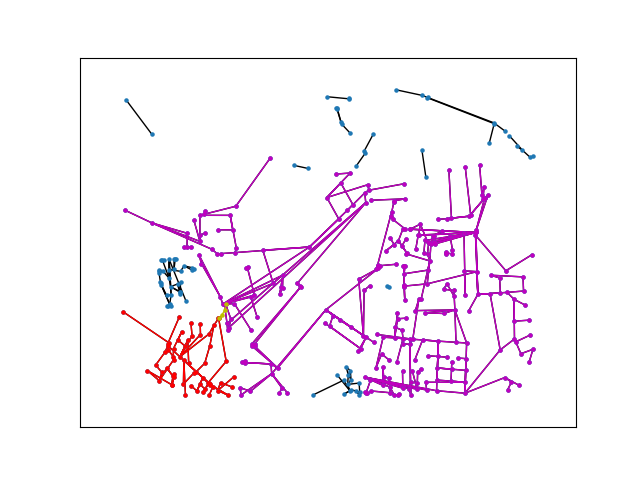
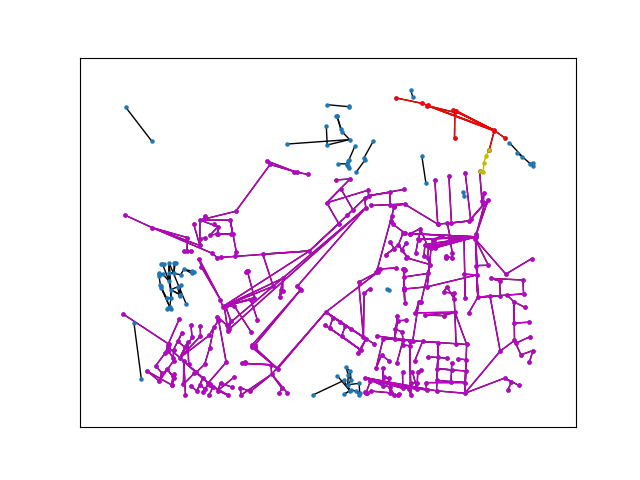
Refactor graph and model; Update images

diff --git a/scripts/graph.py b/scripts/graph.py
@@ -1,11 +1,10 @@
-import math
 import matplotlib.pyplot as plt
 import networkx as nx
 import numpy as np
+from geopy import distance
 from matplotlib import colormaps
 from scripts.model import Model
-from shapely import area, Polygon
-from typing import List, Set, Tuple
+from typing import Dict, List, Set, Tuple
 
 
 class GraphProcessing:
@@ -22,15 +21,19 @@ class GraphProcessing:
         self.graph_complete = nx.Graph(adj_list_complete)
         self.graph = nx.Graph(adj_list)
 
-        edge_length = {edge: self.__get_edge_length(edge) for edge in self.graph_complete.edges}
+        self.edge_length = {edge: self.get_edge_length(edge) for edge in self.graph_complete.edges}
         nx.set_node_attributes(self.graph_complete, self.layout, 'pos')
-        nx.set_edge_attributes(self.graph_complete, edge_length, 'length')
+        nx.set_edge_attributes(self.graph_complete, self.edge_length, 'length')
         nx.set_node_attributes(self.graph, self.layout, 'pos')
-        nx.set_edge_attributes(self.graph, edge_length, 'length')
+        nx.set_edge_attributes(self.graph, self.edge_length, 'length')
 
         self.connect_close_nodes()
         sorted_groups = self.get_connected_components()
         self.largest_groups = [sorted_groups[0], sorted_groups[1]]
+
+        if self.config.zero_cost:
+            self.edge_length = self.update_edge_length(self.edge_length)
+            nx.set_edge_attributes(self.graph_complete, self.edge_length, 'length')
 
     def shortest_path_overall(self, from_region: Set[int], to_region: Set[int]):
         """
@@ -39,20 +42,20 @@ class GraphProcessing:
         dist = float('inf')
         shortest_path = []
         for target in to_region:
-            distance, path = nx.multi_source_dijkstra(self.graph_complete, from_region, target=target, weight='length')
-            if distance < dist:
-                dist = distance
+            dist_temp, path = nx.multi_source_dijkstra(self.graph_complete, from_region, target=target, weight='length')
+            if dist_temp < dist:
+                dist = dist_temp
                 shortest_path = path
         shortest_path_edges = [(shortest_path[i], shortest_path[i + 1]) for i in range(len(shortest_path) - 1)]
-        return dist, self.trim_path(shortest_path_edges, from_region, to_region)
+        return dist, shortest_path_edges
 
     def shortest_path_town_centre(self, from_region: Set[int], to_region: Set[int]):
         """
         Find the shortest path between the central node in from_region and the central node in to_region,
         where the central node in a region is the node nearest to the centre of the town.
         """
-        node_from = min(from_region, key=lambda n: math.dist(self.layout[n], self.centre))
-        node_to = min(to_region, key=lambda n: math.dist(self.layout[n], self.centre))
+        node_from = min(from_region, key=lambda n: self.get_geodesic_distance(self.layout[n], self.centre))
+        node_to = min(to_region, key=lambda n: self.get_geodesic_distance(self.layout[n], self.centre))
         dist, shortest_path = nx.single_source_dijkstra(self.graph_complete, node_from, node_to, weight='length')
         shortest_path_edges = [(shortest_path[i], shortest_path[i + 1]) for i in range(len(shortest_path) - 1)]
         return dist, self.trim_path(shortest_path_edges, from_region, to_region)
@@ -63,30 +66,19 @@ class GraphProcessing:
         where the central node in a region is the node nearest to the centre of the region.
         """
         centre_from, centre_to = self.get_centre_of_nodes(from_region), self.get_centre_of_nodes(to_region)
-        node_from = min(from_region, key=lambda n: math.dist(self.layout[n], centre_from))
-        node_to = min(to_region, key=lambda n: math.dist(self.layout[n], centre_to))
+        node_from = min(from_region, key=lambda n: self.get_geodesic_distance(self.layout[n], centre_from))
+        node_to = min(to_region, key=lambda n: self.get_geodesic_distance(self.layout[n], centre_to))
         dist, shortest_path = nx.single_source_dijkstra(self.graph_complete, node_from, node_to, weight='length')
         shortest_path_edges = [(shortest_path[i], shortest_path[i + 1]) for i in range(len(shortest_path) - 1)]
         return dist, self.trim_path(shortest_path_edges, from_region, to_region)
 
-    @staticmethod
-    def trim_path(path: List[Tuple[int, int]], from_region: Set[int], to_region: Set[int]):
-        enum_edges = list(enumerate(path))
-        edges_in_from = [(i, edge) for (i, edge) in enum_edges if edge[0] in from_region and edge[1] not in from_region]
-        edges_in_to = [(i, edge) for (i, edge) in enum_edges if edge[0] not in to_region and edge[1] in to_region]
-        start, end = edges_in_from[-1][0], edges_in_to[0][0]
-        return path[start:end + 1]
-
     def get_connected_components(self) -> List[Set[int]]:
-        return sorted(nx.connected_components(self.graph), key=self.__group_area, reverse=True)
+        return sorted(nx.connected_components(self.graph), key=self.group_size, reverse=True)
 
     def get_centre_of_nodes(self, nodes: Set[int]) -> Tuple[float, float]:
         g = nx.subgraph(self.graph, nodes)
         centre = list(nx.center(g, weight='length'))[0]
         return self.layout[centre]
-
-    def add_edges_to_graph(self, edges: List[Tuple[int, int]]):
-        self.graph.add_edges_from(edges)
 
     def display(self, subgraph: List[Set[int]] = None, filepath=None):
         fig, ax = plt.subplots()
@@ -118,23 +110,37 @@ class GraphProcessing:
 
     def connect_close_nodes(self):
         new_edges = nx.geometric_edges(self.graph, radius=self.config.neighbour_eps)
-        self.graph.add_edges_from(new_edges)
+        self.graph.add_edges_from(new_edges, length=self.config.neighbour_eps)
         new_edges = nx.geometric_edges(self.graph_complete, radius=self.config.neighbour_eps)
-        self.graph_complete.add_edges_from(new_edges)
+        self.graph_complete.add_edges_from(new_edges, length=self.config.neighbour_eps)
 
-    def __group_area(self, group: Set[int]):
-        coordinates = [self.layout.get(node_id) for node_id in group]
-        south = min(coordinates, key=lambda x: x[1])
-        west = min(coordinates, key=lambda x: x[0])
-        north = max(coordinates, key=lambda x: x[1])
-        east = max(coordinates, key=lambda x: x[0])
-        bbox: List[Tuple[float, float]] = [south, west, north, east]
-        return area(Polygon(bbox))
+    def group_size(self, group: Set[int]):
+        subgraph = self.graph.subgraph(group)
+        size = 0
+        for edge in subgraph.edges:
+            size += subgraph.get_edge_data(*edge)['length']
+        return size
 
-    def __get_edge_length(self, edge: Tuple[int, int]):
-        if self.config.zero_cost and edge in self.graph.edges:
-            return 0
-        return math.dist(self.layout[edge[0]], self.layout[edge[1]]) * 10000
+    def update_edge_length(self, edge_length: Dict[Tuple[int, int], float]):
+        for edge in edge_length.keys():
+            if edge in self.graph.edges:
+                edge_length[edge] = 0
+        return edge_length
 
-    def __get_geometric_edges(self, graph) -> List[Tuple[int, int]]:
+    def get_edge_length(self, edge: Tuple[int, int]):
+        return self.get_geodesic_distance(self.layout[edge[0]], self.layout[edge[1]])
+
+    def get_geometric_edges(self, graph) -> List[Tuple[int, int]]:
         return nx.geometric_edges(graph, radius=self.config.neighbour_eps)
+
+    @staticmethod
+    def get_geodesic_distance(pos1: Tuple[float, float], pos2: Tuple[float, float]):
+        return distance.distance(tuple(reversed(pos1)), tuple(reversed(pos2))).km
+
+    @staticmethod
+    def trim_path(path: List[Tuple[int, int]], from_region: Set[int], to_region: Set[int]):
+        enum_edges = list(enumerate(path))
+        edges_in_from = [(i, edge) for (i, edge) in enum_edges if edge[0] in from_region and edge[1] not in from_region]
+        edges_in_to = [(i, edge) for (i, edge) in enum_edges if edge[0] not in to_region and edge[1] in to_region]
+        start, end = edges_in_from[-1][0], edges_in_to[0][0]
+        return path[start:end + 1]

diff --git a/scripts/model.py b/scripts/model.py
@@ -1,5 +1,5 @@
 from scripts.data_fetcher import DataFetcher
-from typing import Dict, List
+from typing import Dict, List, Tuple
 import overpy
 
 
@@ -18,39 +18,8 @@ class Model:
         adj_list = self.ways_to_adj_list(hyper_edges, link_counter)
         return adj_list
 
-    def get_node_pos(self, adj_list: Dict[int, List[int]]):
+    def get_node_pos(self, adj_list: Dict[int, List[int]]) -> Dict[int, Tuple[float, float]]:
         return self.data_fetcher.get_node_pos_by_ids(list(adj_list.keys()))
-
-    @staticmethod
-    def count_node_links(hyper_edges: List[List[overpy.Node]]) -> Dict[int, int]:
-        link_counter: Dict[int, int] = {}
-        for hyper_edge in hyper_edges:
-            for node in hyper_edge:
-                link_counter[node.id] = link_counter.get(node.id, 0) + 1
-        return link_counter
-
-    @staticmethod
-    def ways_to_adj_list(hyper_edges: List[List[overpy.Node]], link_count: Dict[int, int]) -> Dict[int, List[int]]:
-        adj_list: Dict[int, List[int]] = {}
-        for hyper_edge in hyper_edges:
-            cur_pointer = 0
-            cur_node = hyper_edge[cur_pointer]
-            next_pointer = cur_pointer + 1
-            while next_pointer < len(hyper_edge):
-                next_node = hyper_edge[next_pointer]
-                if (link_count[next_node.id] > 1 or next_pointer == len(hyper_edge) - 1) \
-                        and cur_node.id != next_node.id:
-                    neighbours = adj_list.get(cur_node.id, [])
-                    neighbours.append(next_node.id)
-                    adj_list[cur_node.id] = neighbours
-
-                    adj_list[next_node.id] = adj_list.get(next_node.id, [])
-
-                    cur_pointer = next_pointer
-                    next_pointer = cur_pointer + 1
-                else:
-                    next_pointer += 1
-        return adj_list
 
     def eval_way(self, way: overpy.Way) -> float:
         score = 0
@@ -70,3 +39,32 @@ class Model:
                 tag_score = mapping.get(tag_value, 0)
             score += weight * tag_score
         return score / max_score
+
+    @staticmethod
+    def count_node_links(hyper_edges: List[List[overpy.Node]]) -> Dict[int, int]:
+        link_counter: Dict[int, int] = {}
+        for hyper_edge in hyper_edges:
+            for node in hyper_edge:
+                link_counter[node.id] = link_counter.get(node.id, 0) + 1
+        return link_counter
+
+    @staticmethod
+    def ways_to_adj_list(hyper_edges: List[List[overpy.Node]], link_count: Dict[int, int]) -> Dict[int, List[int]]:
+        adj_list: Dict[int, List[int]] = {}
+        for h_edge in hyper_edges:
+            cur_pointer = 0
+            cur_node = h_edge[cur_pointer]
+            next_pointer = cur_pointer + 1
+            while next_pointer < len(h_edge):
+                next_node = h_edge[next_pointer]
+                if (link_count[next_node.id] > 1 or next_pointer == len(h_edge) - 1) and cur_node.id != next_node.id:
+                    neighbours = adj_list.get(cur_node.id, [])
+                    neighbours.append(next_node.id)
+                    adj_list[cur_node.id] = neighbours
+                    adj_list[next_node.id] = adj_list.get(next_node.id, [])
+
+                    cur_pointer = next_pointer
+                    next_pointer = cur_pointer + 1
+                else:
+                    next_pointer += 1
+        return adj_list
